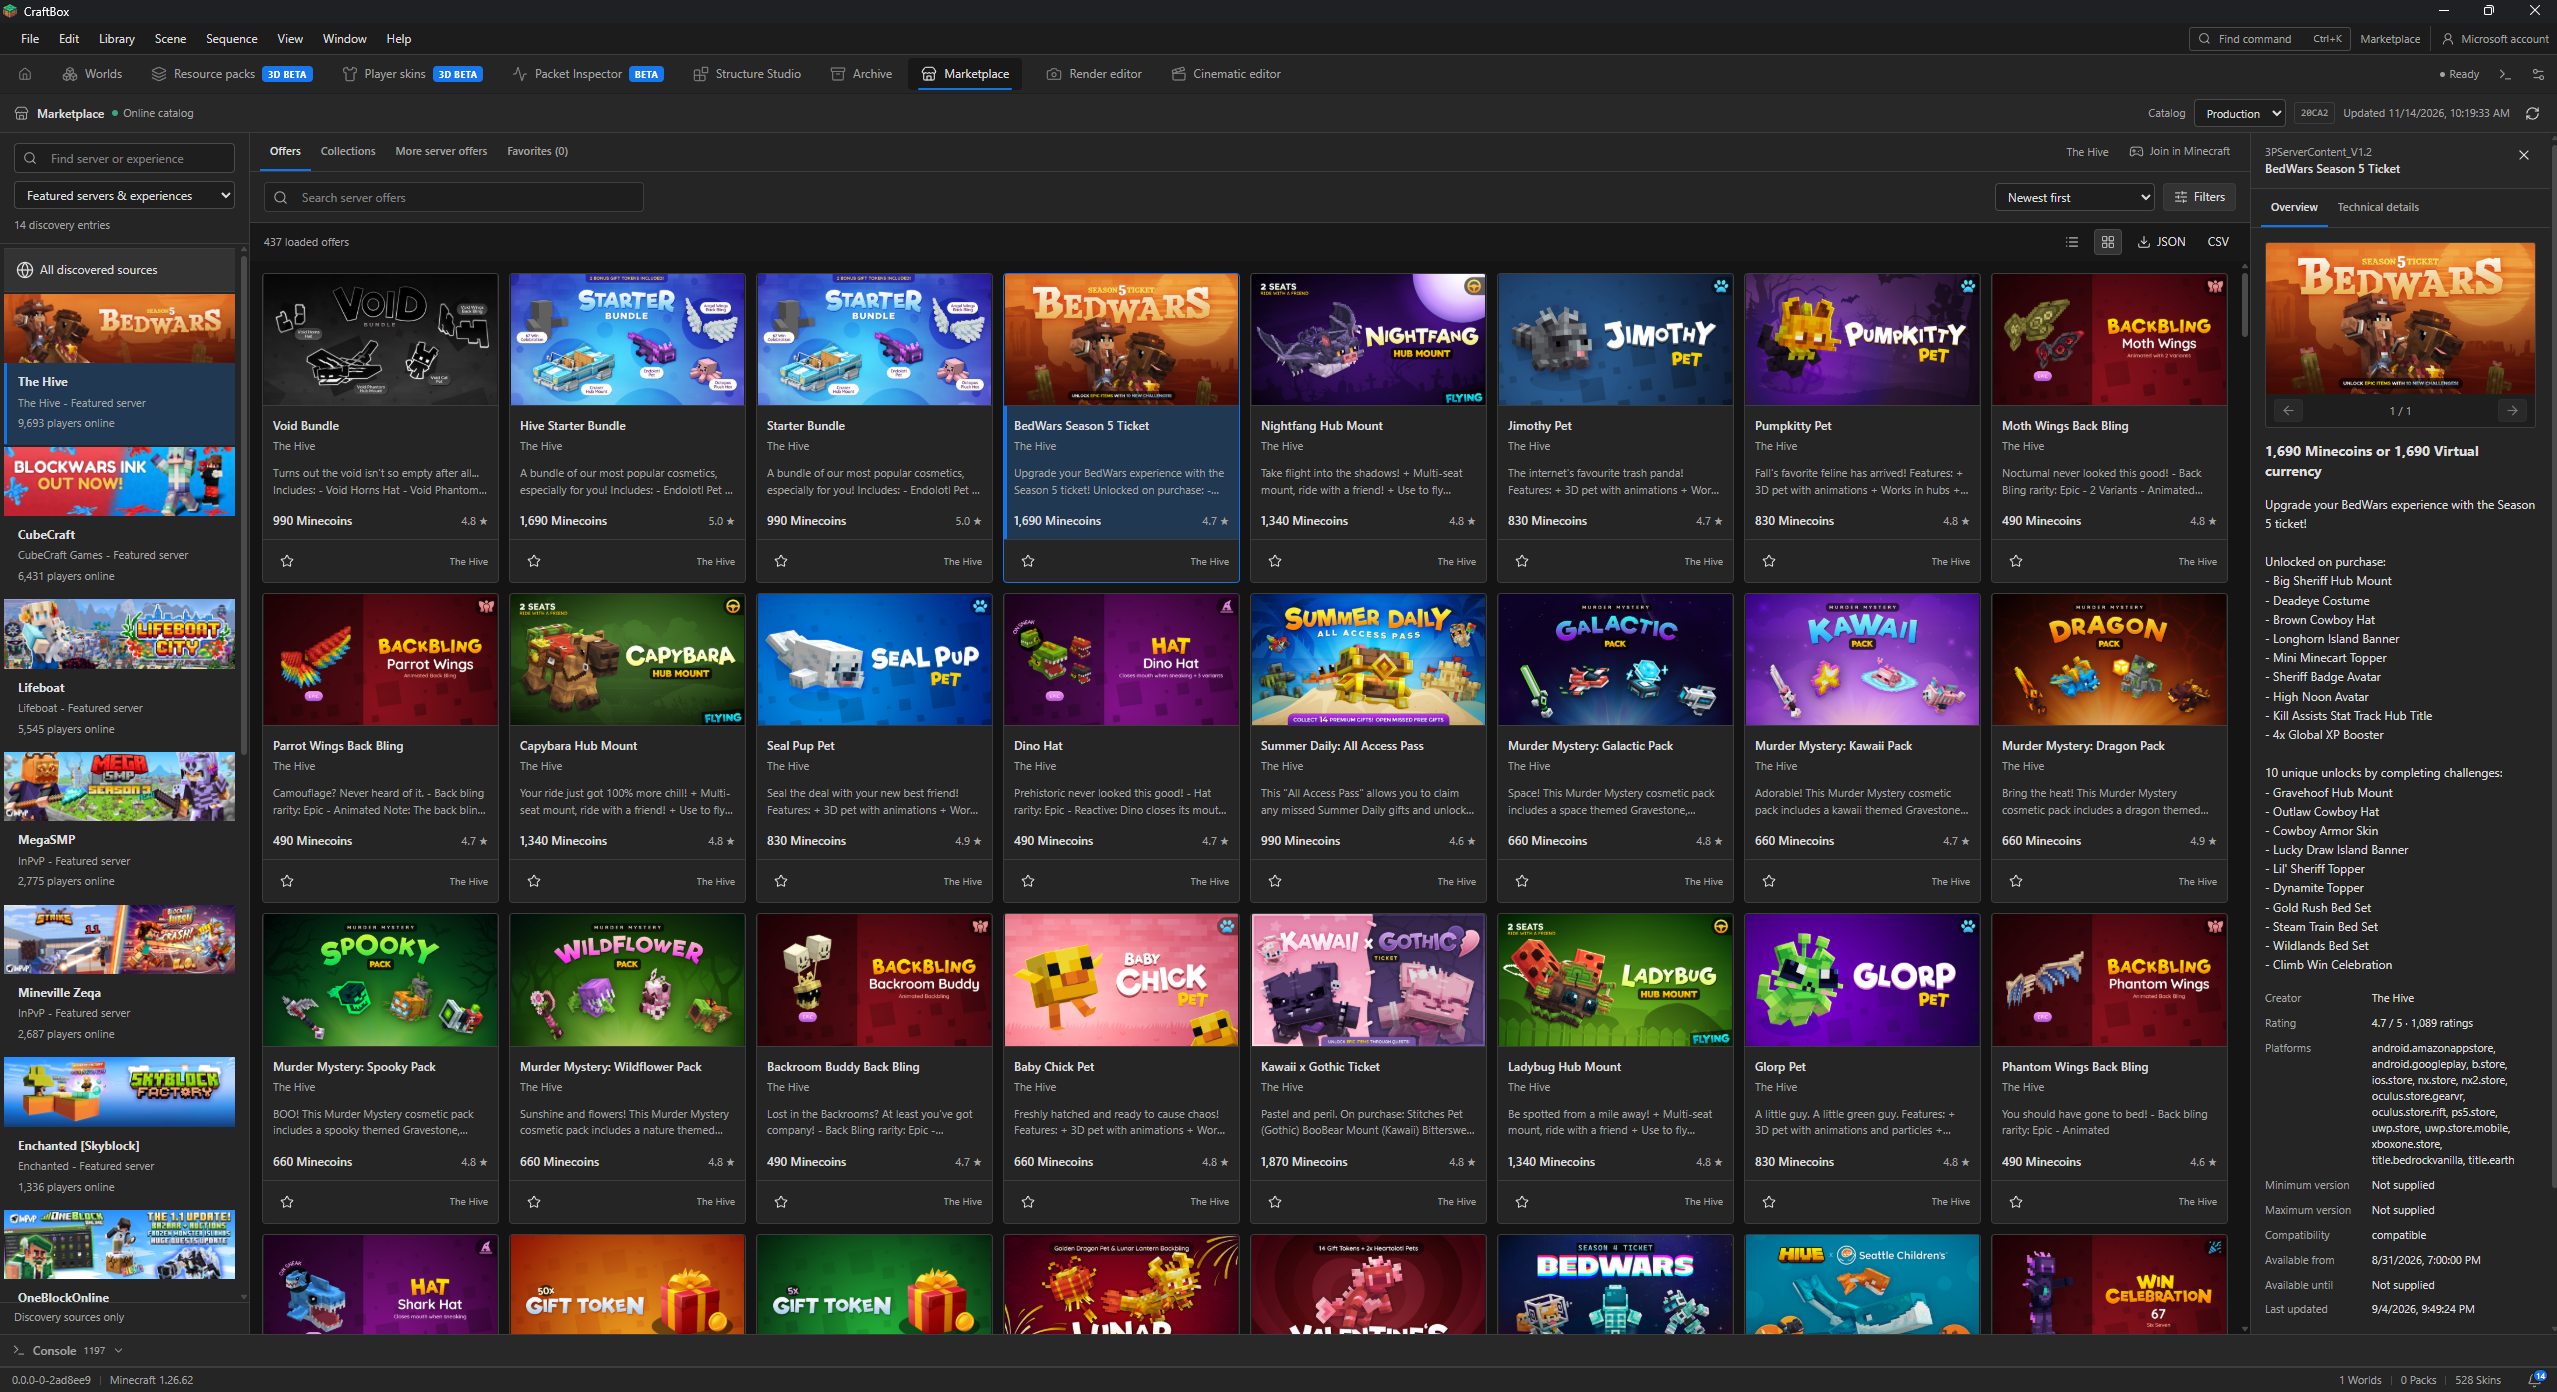
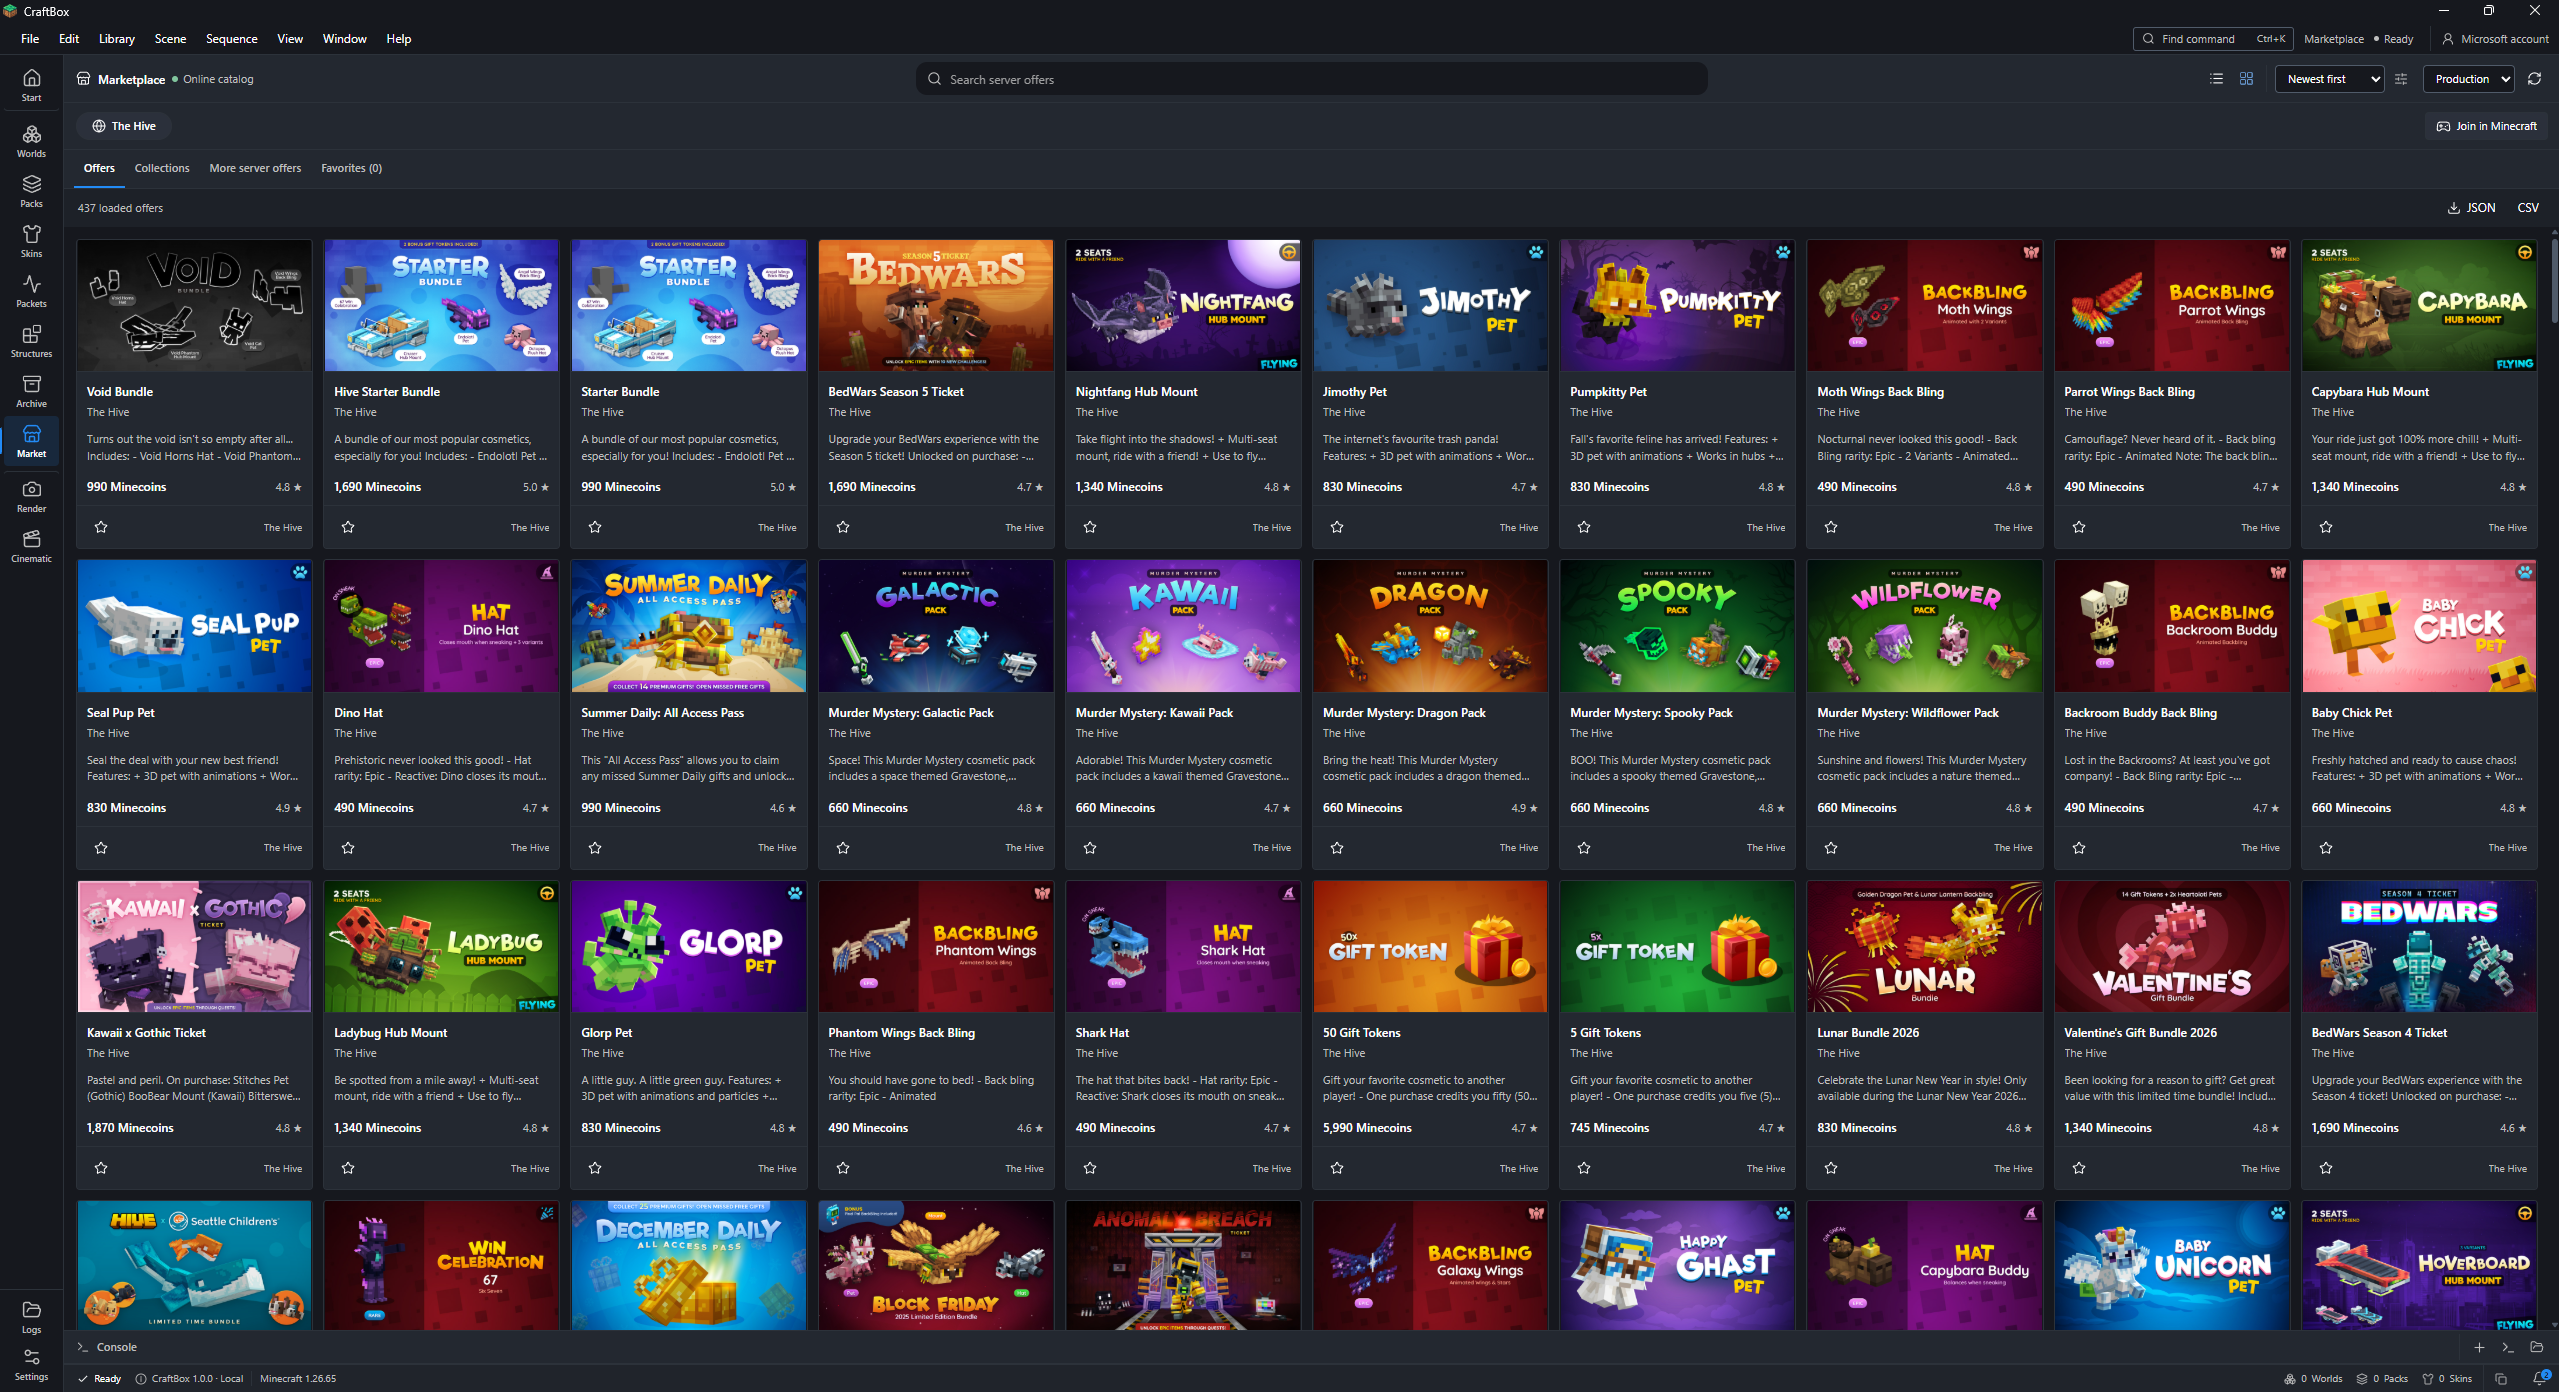
docs: refresh workspace screenshots in the README

diff --git a/Readme.md b/Readme.md
@@ -162,9 +162,9 @@ Existing `.pcap2` recordings and supported ProxyPass logs or ProxyWeb JSON expor
 
 **Marketplace** shows online offers from supported featured-server and Experience sources, including item details, previews, favorites and comparisons. It needs a connection for catalog browsing; it does not keep an offline copy of the catalog.
 
-![CraftBox Marketplace showing discovered server sources, Hive offers and the selected item's images, price and technical details](docs/images/craftbox-marketplace.png)
+![CraftBox Marketplace showing The Hive's offer grid with item images, Minecoin prices, ratings and favorites](docs/images/craftbox-marketplace.png)
 
-*The online catalog with server discovery on the left, offers in the middle and the selected item's details on the right.*
+*The Hive's online catalog, with offer previews, Minecoin prices, ratings and favorites in a grid.*
 
 See [Packet Inspector](docs/packet-inspector.md), [Console workspace](docs/console-workspace.md), [Persistent diagnostics](docs/persistent-diagnostics.md), and [Marketplace](docs/marketplace.md) for the individual workflows.
 
